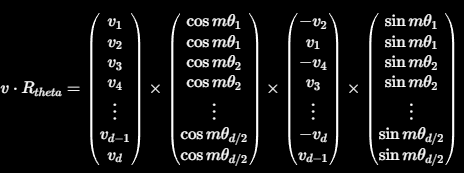
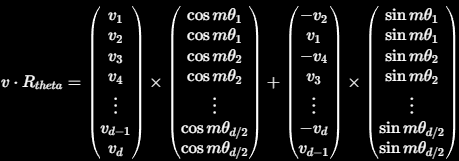
llama RoPE - draft

Changed region(s): [[0.0, 0.0311, 1.0, 0.9938], [0.4575, 0.5901, 0.488, 0.7143]]

diff --git a/LLama_decoder_only_architecture/Llama2/model.py b/LLama_decoder_only_architecture/Llama2/model.py
@@ -1,0 +1,84 @@
+import torch
+import torch.nn as nn
+import torch.nn.functional as F
+import math
+from dataclasses import dataclass
+from typing import Optional
+
+@dataclass
+class ModelArgs:
+    dim: int = 4096
+    n_layers: int = 32
+    n_heads: int = 32 # n head for query 
+    n_kv_heads: Optional[int] = None # n heads for k and v
+    vocab_size: int = -1 # will be set when we make the tokenizer
+    multiple_of:int = 256 # hidden of feed forward
+    ffn_dim_multiplier: Optional[int] = None # use to compare the number of params between GQA and vanilla attention
+    norm_eps: float = 1e-5
+
+    max_batch_size:int = 32
+    max_seq_len:int = 2048
+
+    device:str = None
+
+def precompute_theta_pos_frequencies(head_dim:int, seq_len:int, device:str, theta:float = 10000.0): # 10k is form the paper on RoPE
+    assert head_dim % 2 == 0, 'embedding cannot be applied to odd number of head (dimentions)'
+
+    # build theta parameters
+    # shape: (head_dim / 2)
+
+    # theta_i = 10k ^ (-2*(i-1)/dim) for i = [1,2,3, ..., dim/2]
+
+    theta_numerator = torch.arange(0, head_dim, 2).float()
+    # shape: (head_dim/2)
+    theta = 1.0 / (theta ** (theta_numerator / head_dim)).to(device)
+    # construct positions
+    # shape: (seq_len)
+    m = torch.arange(seq_len, device=device)
+
+    # now we multiply m with all the thetas - for that we use outer product - each element with each element, all posiible combinations
+    # shape: (seq_len), (head_dim/2) -> (seq_len, head_dim/2)
+    freqs = torch.outer(m, theta).float()
+
+    # we want to comput the numbers into the complex form to get the rotation: c = R*exp(i*m*theta), where R=1
+    freqs_complex = torch.polar(torch.ones_like(freqs), freqs)
+    return freqs_complex
+
+
+class Transformer(nn.Module):
+    def __init__(self, args: ModelArgs):
+        super().__init__()
+
+        assert args.vocab_size != -1, 'Vocab size must be set'
+
+        self.args = args
+        self.vocab_size = args.vocab_size
+        self.n_layers = args.n_layers
+        self.tok_embeddings = nn.Embedding(self.vocab_size, args.dim)
+
+        self.layers = nn.ModuleList()
+        for _ in range(args.n_layers):
+            self.layers.appen(EncoderBlock(args))
+
+        self.norm = RMSNorm(args.dim, eps=args.norm_eps)
+        self.output = nn.Linear(args.dim, self.vocab_size, bias=False)
+
+        self.freqs_complex = precompute_theta_pos_fequencies(self.args.dim // self.args.n_heads, self.args.max_seq_len * 2, device = self.args.device)
+
+    def forward(self, tokens: torch.Tensor, start_pos: int): #inference only
+        # (B, seq_len)
+        batch_size, seq_len = tokens.shape
+        assert seq_len == 1, "only one token at a time for inference" # for kv cache
+
+        # (B, seq_len) -> (B, seq_len, dim)
+        h = self.tok_embeddings(tokens)
+
+        # retrieve the pairs (m, theta) corresponding to the positions [start_pos, start_pos+ seq_len]
+        freqs_complex = self.freqs_complex[start_pos:start_pos + seq_len]
+
+        # apply the encoder layers
+        for layer in self.layers:
+            h = layer(h, start_pos, freqs_complex)
+        h = self.norm(h)
+        output = self.output(h).float()
+        return output

diff --git a/LLama_decoder_only_architecture/README.md b/LLama_decoder_only_architecture/README.md
@@ -82,7 +82,7 @@ $m\text{ - position of embedding}$
 
 ![](./img/rotary2.png)
 
-<!-- $v \cdot R_{theta} = \begin{pmatrix} v_1 \\ v_2 \\ v_3 \\ v_4 \\ \vdots \\ v_{d-1} \\ v_d\\\end{pmatrix} \times \begin{pmatrix} \cos m\theta_1 \\ \cos m\theta_1 \\ \cos m\theta_2 \\ \cos m\theta_2 \\ \vdots \\ \cos m\theta_{d/2} \\ \cos m\theta_{d/2}\end{pmatrix} \times \begin{pmatrix} -v_2 \\ v_1 \\ -v_4 \\ v_3 \\ \vdots \\ -v_d \\ v_{d-1}\end{pmatrix} \times \begin{pmatrix} \sin m\theta_1 \\ \sin m\theta_1 \\ \sin m\theta_2 \\ \sin m\theta_2 \\ \vdots \\ \sin m\theta_{d/2} \\ \sin m\theta_{d/2}\end{pmatrix}$ -->
+<!-- $v \cdot R_{theta} = \begin{pmatrix} v_1 \\ v_2 \\ v_3 \\ v_4 \\ \vdots \\ v_{d-1} \\ v_d\\\end{pmatrix} \times \begin{pmatrix} \cos m\theta_1 \\ \cos m\theta_1 \\ \cos m\theta_2 \\ \cos m\theta_2 \\ \vdots \\ \cos m\theta_{d/2} \\ \cos m\theta_{d/2}\end{pmatrix} + \begin{pmatrix} -v_2 \\ v_1 \\ -v_4 \\ v_3 \\ \vdots \\ -v_d \\ v_{d-1}\end{pmatrix} \times \begin{pmatrix} \sin m\theta_1 \\ \sin m\theta_1 \\ \sin m\theta_2 \\ \sin m\theta_2 \\ \vdots \\ \sin m\theta_{d/2} \\ \sin m\theta_{d/2}\end{pmatrix}$ -->
 
 They are computed once and then we can reuse them. And the relation between two tokens decays as the distance grows (what we want). we do not add anything - we multiply the token embedding by the rotation matrix. The RoPE are applied onlt to the $Q$ and $K$ matrices and after they have been multiplied by $W$, in the vanilla transformer they are applied before.
 

diff --git a/LLama_decoder_only_architecture/Llama2/README.md b/LLama_decoder_only_architecture/Llama2/README.md
@@ -1,0 +1,22 @@
+# LLama 2 Architecture
+
+## Embeddings
+The Embeddings for llama 2 share a common principle - they turn sentences into tokens (usually [BPE](https://huggingface.co/learn/llm-course/en/chapter6/5) tokenizer) and then into values that encode some information.
+
+In llama the embeddding dim is 4096.
+
+Then (in vanilla transformer) we add positional embeddings and then we get the stuff we feed into the network - they are called absolute possitional embeddings.
+
+In Llama we use RoPE, we also compute them before the calculation of the attention and they are calculated for Q and K only. RoPE are something between absolute and relative mebeddings - RoPE were introduced as a way to find an inner product between Q and K that only depends on their relative distance, this is done through Euler's formula (the one when we take the power of e^[x] to get a rotation), so the tokens that are in a similar position are kinda similar.
+
+>[!NOTE] inner product is a "generalization" of the dot product
+
+The vanilla rotational metrix is very sparse, so we do this
+![](../img/rotary2.png)
+
+to get the embedding - where m is the token position and theta is precomputed as a series. We can precompute the matrices with cos and sin as they depend only on position.
+
+The motivation behind complex numbers in the RoPE are used to roatations as Euler's formula says:
+$e^{ix} = \cos (x) + i \cdot \sin (x)$
+
+So we can represent complex numbers in trygonometric forms.
